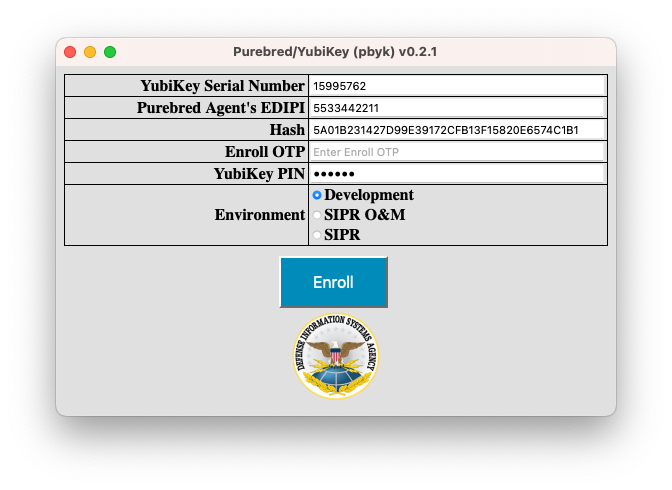
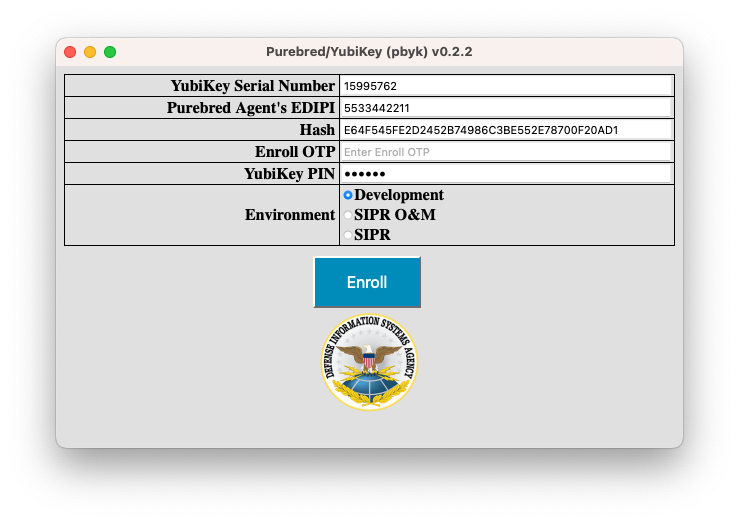
adjust contents to reflect support for multiple yubikeys. add pdf generation.

Changed region(s): [[0.0625, 0.0612, 0.9375, 0.8571]]

diff --git a/src/3_gui.md b/src/3_gui.md
@@ -44,6 +44,9 @@ whose EDIPI is 5533442211.
     <img src="screenshots/pre_enroll.png">
 </div>
 
+The YubiKey Serial Number field is a drop list and will feature multiple options when multiple YubiKeys are available.
+When a different device is changed, the form displayed by the app may change to match the state of the newly selected device.
+
 ### Enroll
 
 Next, the Purebred Agent will affirm the hash value displayed following pre-enrollment to establish trust in the device and will provide an Enrollment OTP.
@@ -52,6 +55,8 @@ As with Pre-enrollment, the Enrollment operation must be completed within three 
 <div align="center">
     <img src="screenshots/enroll.png">
 </div>
+
+The YubiKey Serial Number field is a read-only text box and will feature the value selected on the Pre-enroll view.
 
 ### User key management
 
@@ -64,6 +69,9 @@ generating the OTP value.
     <img src="screenshots/ukm.png">
 </div>
 
+The YubiKey Serial Number field is a drop list and will feature multiple options when multiple YubiKeys are available.
+When a different device is changed, the form displayed by the app may change to match the state of the newly selected device.
+
 ### Recover
 
 The Recover operation is optional and follows the same steps as described for UKM. After obtaining a UKM OTP complete
@@ -73,6 +81,9 @@ the Recover operation as shown below taking care to clcik the `Recover Old Decry
 <div align="center">
     <img src="screenshots/recover.png">
 </div>
+
+The YubiKey Serial Number field is a drop list and will feature multiple options when multiple YubiKeys are available.
+When a different device is changed, the form displayed by the app may change to match the state of the newly selected device.
 
 ## Using command-line interface
 

diff --git a/src/5_known_issues.md b/src/5_known_issues.md
@@ -1,12 +1,10 @@
 # Known Issues
 
 ## General
-- NIPR and O&M NIPR builds are not presently supported owing to lack of support for BER decoding in the `cms` crate and the current NIPR CA's usage of BER encoding when returing CA certificates during SCEP processing
+- NIPR and O&M NIPR builds are not presently supported owing to lack of support for BER decoding in the `cms` crate and the current NIPR CA's usage of BER encoding when returning CA certificates during SCEP processing
 - GUI support is not presently provided for Linux
 
 ## GUI mode
-- Presence of multiple YubiKeys is not supported
 - Copy and Paste does not work on MacOS (see [Dioxus issue 1691](https://github.com/DioxusLabs/dioxus/issues/1691))
-- Console window from which app is launched in GUI mode is always hidden on Windows (this may not be desired when launching from a command prompt)
 - State information is only saved when an action is performed, not when app is closed
 - YubiKey reset capability is not available on MacOS on x86_64 hardware
